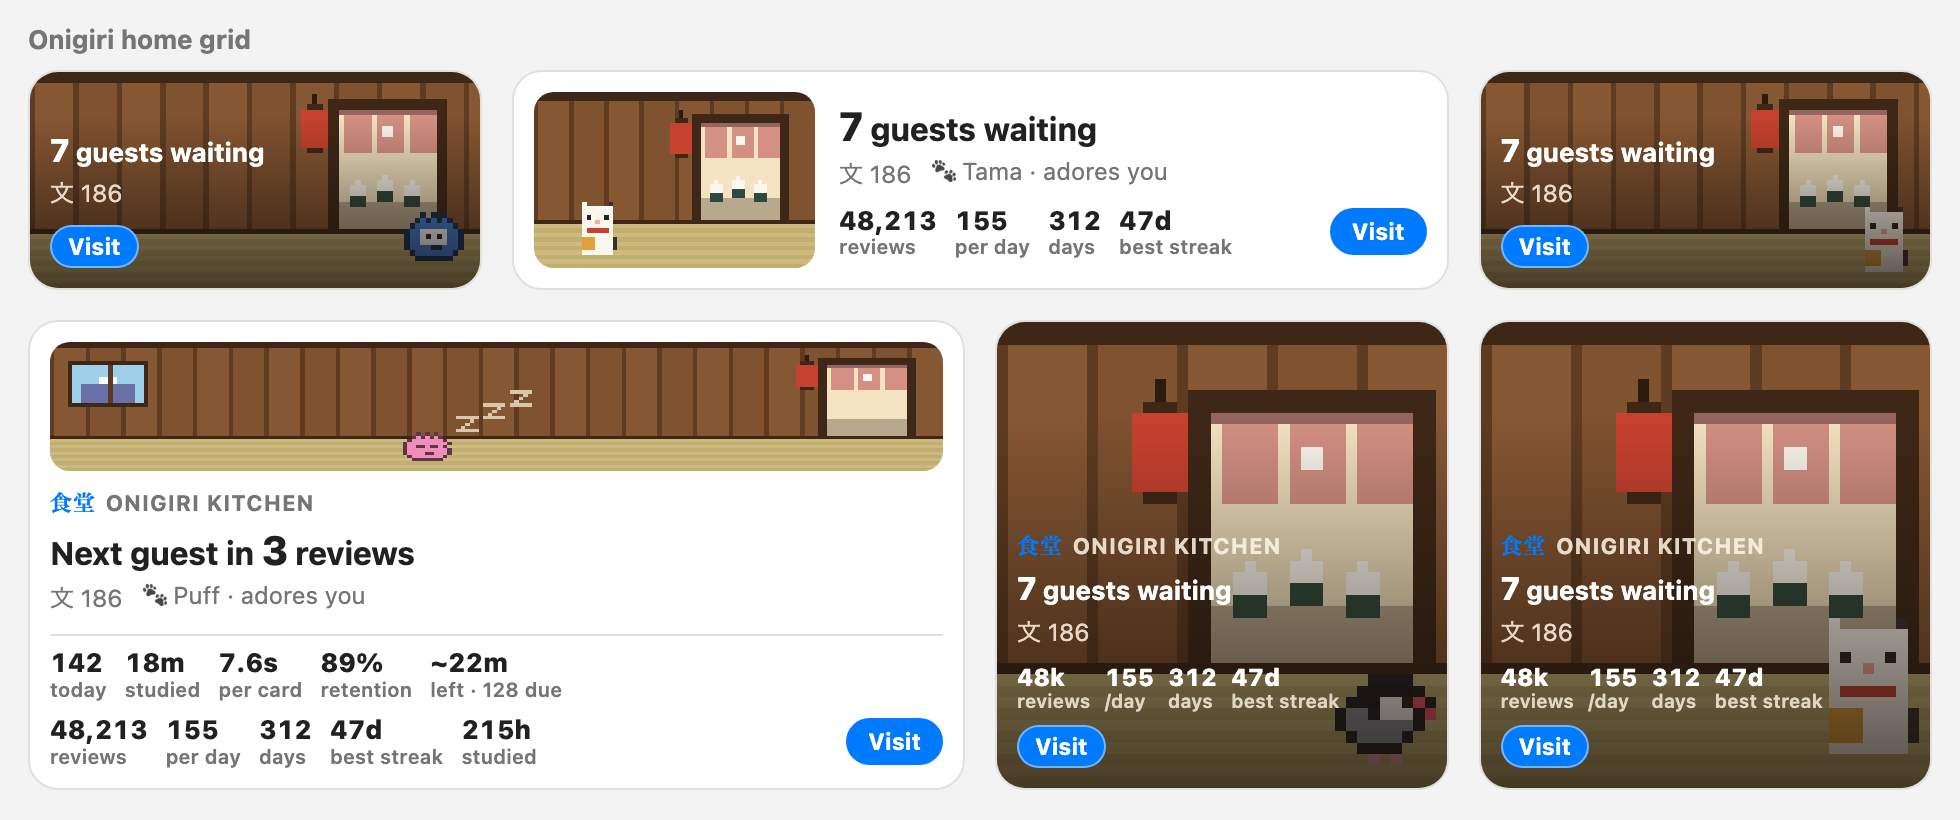
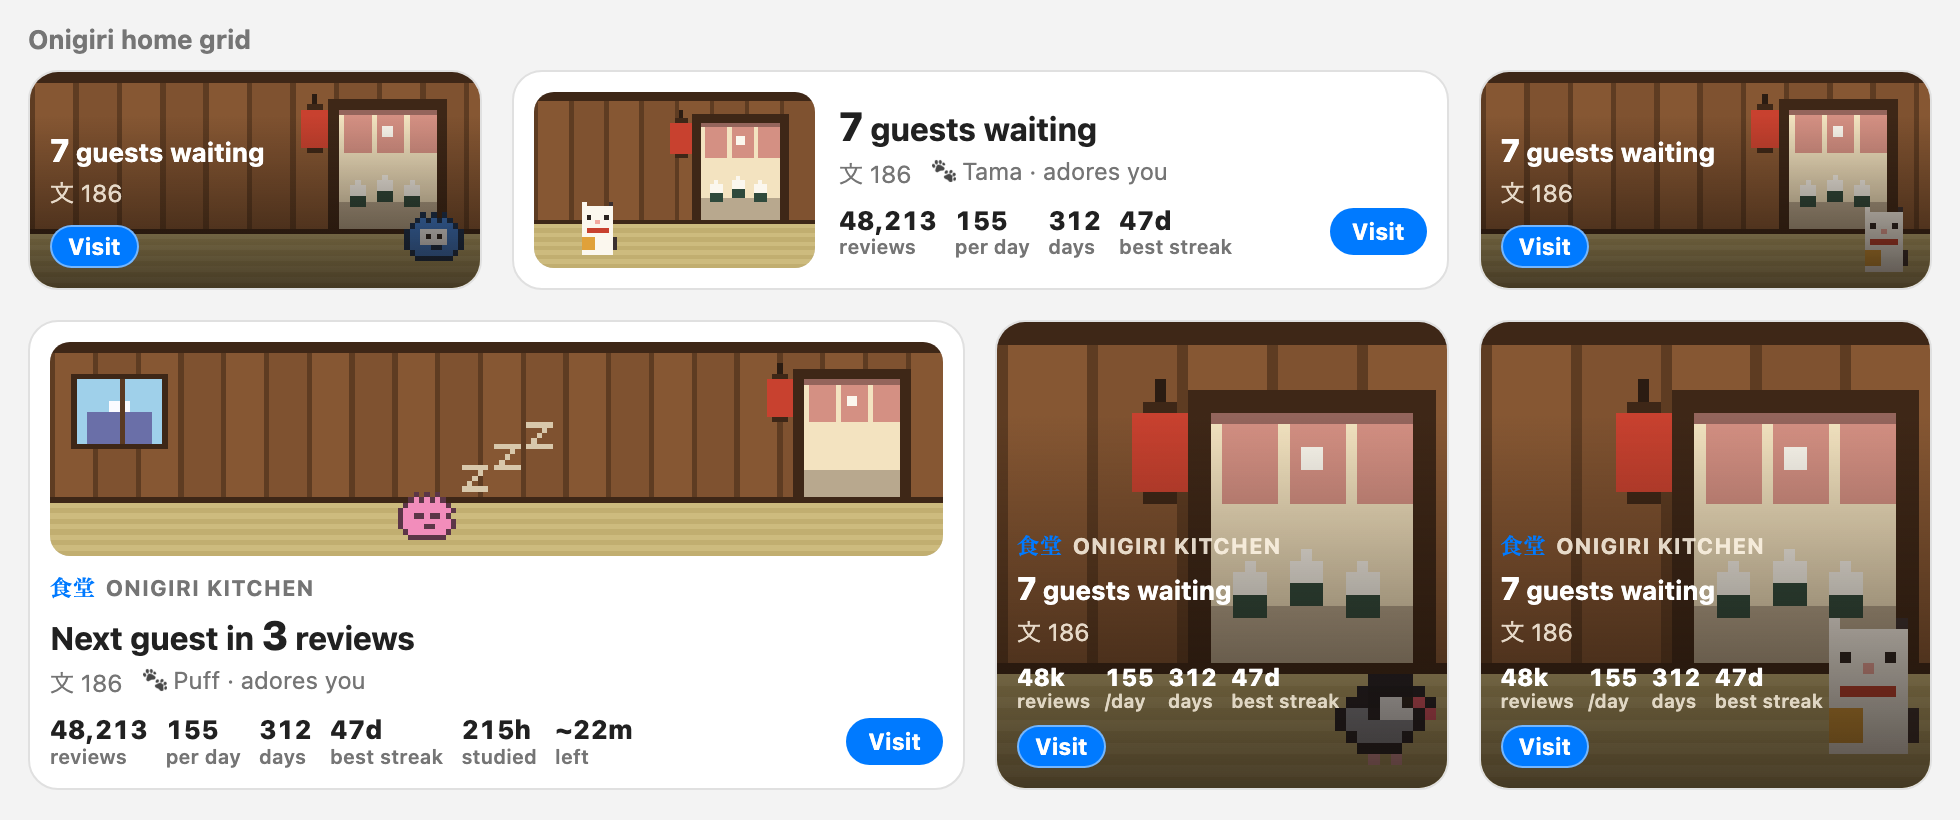
Widget: just the time left, not a today row (Onigiri already shows today)
Big widgets show hours studied and ~time left on today's due cards; the hover
has the due breakdown and all-time totals.

Changed region(s): [[0.0, 0.4268, 0.498, 0.8537], [0.2801, 0.8841, 0.3423, 0.9451]]

diff --git a/onigiri_kitchen/web/widget.js b/onigiri_kitchen/web/widget.js
@@ -207,34 +207,27 @@
     const short = (n) => (n >= 10000 ? Math.round(n / 1000) + 'k' : n >= 1000 ? (n / 1000).toFixed(1).replace(/\.0$/, '') + 'k' : String(n || 0));
     const two = (l, sh) => `<span class="okw-l">${l}</span><span class="okw-s">${sh}</span>`;
     const stat = (v, vs, label, ls, tip) => `<span class="okw-stat" title="${tip}"><b>${two(v, vs)}</b><small>${two(label, ls)}</small></span>`;
+    // how long what's still due will take at your pace (the one thing about
+    // today that Onigiri doesn't already show)
+    const t = d.studyToday;
+    const mins = (secs) => { const m = Math.round(secs / 60); return m >= 60 ? `${Math.floor(m / 60)}h${m % 60 ? ` ${m % 60}m` : ''}` : `${m}m`; };
+    const due = t && t.due ? t.due.total : 0;
+    const leftTip = t ? (due ? `About ${mins(t.estimateSeconds)} left: ${due} cards due (${t.due.new} new, ${t.due.learn} learning, ${t.due.review} review), at your own pace` : 'Nothing due right now') : '';
+    const left = t ? stat(due ? `~${mins(t.estimateSeconds)}` : 'done', due ? `~${mins(t.estimateSeconds)}` : 'done', due ? 'left' : 'all due', due ? 'left' : 'due', esc(leftTip)).replace('okw-stat"', 'okw-stat okw-stat-big"') : '';
+    const allTip = st.hours != null ? `\nAll time: ${Number(st.total || 0).toLocaleString()} reviews in ${st.hours} hours.` : '';
+    el.title = `Open Onigiri Kitchen${leftTip ? `\n${leftTip}.` : ''}${allTip}`;
     const stats = d.stats
       ? stat(num(st.total), short(st.total), 'reviews', 'reviews', `${Number(st.total || 0).toLocaleString()} reviews all time`) +
         stat(num(st.average), short(st.average), 'per day', '/day', 'Average reviews on the days you studied') +
         stat(num(st.days), short(st.days), st.days === 1 ? 'day' : 'days', st.days === 1 ? 'day' : 'days', 'Days studied (with at least one review)') +
         stat(`${st.bestStreak || 0}d`, `${st.bestStreak || 0}d`, 'best streak', 'best streak', 'Your longest-ever streak: the most days in a row you have reviewed') +
-        (st.hours != null ? stat(`${num(Math.round(st.hours))}h`, `${short(Math.round(st.hours))}h`, 'studied', 'studied', `${st.hours} hours of reviewing, all time (as timed by Anki)`).replace('okw-stat"', 'okw-stat okw-stat-hours"') : '')
+        (st.hours != null ? stat(`${num(Math.round(st.hours))}h`, `${short(Math.round(st.hours))}h`, 'studied', 'studied', `${st.hours} hours of reviewing, all time (as timed by Anki)`).replace('okw-stat"', 'okw-stat okw-stat-big"') : '') +
+        left
       : '';
-    // today: cards, time, pace, and how long what's due will take at your pace
-    const t = d.studyToday;
-    const mins = (secs) => { const m = Math.round(secs / 60); return m >= 60 ? `${Math.floor(m / 60)}h${m % 60 ? ` ${m % 60}m` : ''}` : `${m}m`; };
-    const todayTip = t
-      ? `Today: ${t.cards} cards in ${mins(t.seconds)}${t.pace ? `, ${t.pace} s a card` : ''}${t.retention != null ? `, ${t.retention}% retention` : ''}.` +
-        ` Due: ${t.due.total} cards (${t.due.new} new, ${t.due.learn} learning, ${t.due.review} review), about ${mins(t.estimateSeconds)} at your pace.`
-      : '';
-    const today = t
-      ? stat(num(t.cards), short(t.cards), 'today', 'today', `${t.cards} cards studied today`) +
-        stat(mins(t.seconds), mins(t.seconds), 'studied', 'studied', 'Time spent reviewing today, as timed by Anki') +
-        stat(t.pace ? `${t.pace}s` : '–', t.pace ? `${t.pace}s` : '–', 'per card', '/card', 'Your pace today: seconds per card') +
-        stat(t.retention != null ? `${Math.round(t.retention)}%` : '–', t.retention != null ? `${Math.round(t.retention)}%` : '–', 'retention', 'kept', 'Review cards you remembered today') +
-        stat(t.due.total ? `~${mins(t.estimateSeconds)}` : 'done', t.due.total ? `~${mins(t.estimateSeconds)}` : 'done', t.due.total ? `left · ${num(t.due.total)} due` : 'nothing due', 'left', esc(todayTip))
-      : '';
-    const allTip = st.hours != null ? `\nAll time: ${Number(st.total || 0).toLocaleString()} reviews in ${st.hours} hours.` : '';
-    el.title = `Open Onigiri Kitchen${t ? `\n${todayTip}` : ''}${allTip}`;
     info.innerHTML =
       `<div class="okw-top"><span class="okw-jp">食堂</span>Onigiri Kitchen</div>` +
       `<div class="okw-big">${big}</div>` +
       `<div class="okw-sub"><span title="${d.mon} mon (文): tips from your guests">文 ${d.mon}</span>${p.species ? `<span>🐾 ${esc(p.name || 'Tama')} · ${mood(p)}</span>` : ''}</div>` +
-      (today ? `<div class="okw-row okw-row-today"><span class="okw-stats">${today}</span></div>` : '') +
       `<div class="okw-row">` +
       `<span class="okw-stats">${stats}</span>` +
       '' +

diff --git a/onigiri_kitchen/web/widget.css b/onigiri_kitchen/web/widget.css
@@ -148,10 +148,9 @@
   .okw-row .okw-btn { display: inline-block; }
 }
 
-/* today's row (cards, time, pace, time left): only on big widgets, two rows
-   tall and two columns wide; the others show it in their hover title */
-.okw-row-today, .okw-stat-hours { display: none !important; }
+/* extra stats (hours studied, time left) only on big widgets, two rows tall and
+   two columns wide; every widget's hover shows them */
+.okw-stat-big { display: none !important; }
 @container (min-height: 170px) and (min-width: 300px) {
-  .okw-stat-hours { display: flex !important; }
-  .okw-row-today { display: flex !important; margin-top: 6px; padding-top: 6px; border-top: 1px solid var(--border, #e0d4bf); }
+  .okw-stat-big { display: flex !important; }
 }

diff --git a/ANKIWEB.md b/ANKIWEB.md
@@ -38,7 +38,7 @@ You study, guests arrive. You take a break, you get to enjoy them.
 - **Candles on the tables:** click one to light or snuff it. Lanterns and candles light themselves at dusk and go out at dawn.
 - **Confetti and sakura petals** when you finish a deck: 紙吹雪 bursts in from the sides and petals drift down over the "Congratulations" screen, with a little fanfare.
 - **統計 Stats, lots of them:** ⚙ → Open stats, for the last 7 days, 30 days, year or all time. Today's cards, time, pace and how long what's due will take at your pace; pomodoro focus time, streaks, completion rate, best days and time-of-day patterns; your Anki reviews with a year heatmap, retention, answer buttons and your collection's new, young and mature cards; and the kitchen's guests, mon and pet.
-- **Home-screen widget** with your all-time reviews, daily average, days studied and longest streak (big widgets add hours studied, and today's cards, time, pace, retention and time left): add it to your Onigiri main menu from Onigiri's layout editor (or see it under your decks without Onigiri).
+- **Home-screen widget** with your all-time reviews, daily average, days studied and longest streak (big widgets add your hours studied and how long today's due cards will take at your pace): add it to your Onigiri main menu from Onigiri's layout editor (or see it under your decks without Onigiri).
 - **A guided tour** the first time you open it, and a **目安箱 suggestion box** for ideas and bug reports.
 - **Matches your Onigiri theme:** your colours, font and dark mode, or light by day and dark at night by your clock.
 

diff --git a/README.md b/README.md
@@ -76,7 +76,7 @@ built as a companion to the [Onigiri](https://ankiweb.net/shared/info/1011095603
   and collection. Pomodoro and kitchen numbers are recorded from 1.8.0 on.
 - **Home-screen widget.** A small live pixel scene with guests waiting, mon, your pet's mood and all-time stats
   (total reviews, daily average, days studied and longest streak), plus a Visit button. Big widgets (two by two)
-  add your hours studied, and today's cards, time, pace, retention and the time left on what's due. With Onigiri, add it from Onigiri's layout editor. Without Onigiri, it shows under
+  add your hours studied and how long today's due cards will take at your own pace. With Onigiri, add it from Onigiri's layout editor. Without Onigiri, it shows under
   your decks on Anki's main screen (you can turn it off in the add-on config).
 - **A guided tour** the first time you open it, which you can replay from ⚙.
 - **目安箱 suggestion box** on the wall (and in ⚙) for feature ideas and bug reports.
